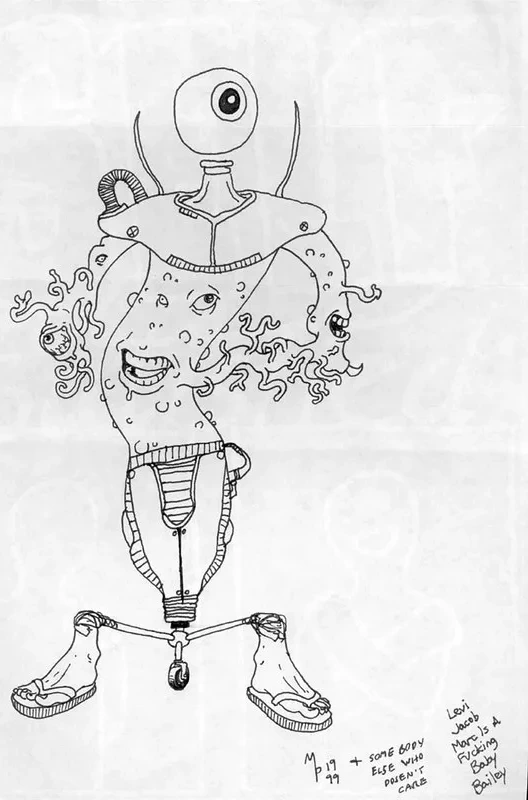
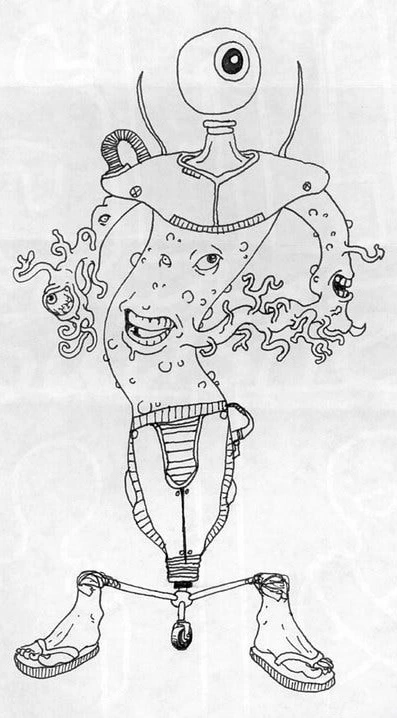
fix: use clean user-provided cyclops image with full sandals

Changed region(s): [[0.0, 0.0306, 0.9673, 1.0], [0.9975, 0.9499, 1.0, 1.0], [0.2116, 0.5209, 0.2418, 0.5515]]

diff --git a/index.html b/index.html
@@ -220,13 +220,6 @@ a { color: inherit; text-decoration: none; }
   position: relative; display: block; width: 100%;
   overflow: hidden;
 }
-.ec-img-frame::after {
-  content: '';
-  position: absolute; bottom: 0; left: 0; right: 0;
-  height: 14%;
-  background: linear-gradient(to bottom, transparent, #0a0a0a);
-  pointer-events: none;
-}
 .ec-img-frame img {
   width: 100%; height: auto; display: block;
   filter: invert(1) contrast(1.8) brightness(1.05);
